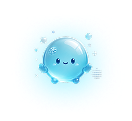
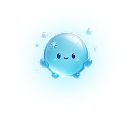
plus_info

diff --git a/accounts/static/css/plus_info.css b/accounts/static/css/plus_info.css
@@ -1,0 +1,133 @@
+.btn{
+    border-radius: 56px;
+background: var(--b_non, linear-gradient(180deg, #FFF 0%, #818181 100%));
+box-shadow: 0 4px 4px 0 rgba(0, 0, 0, 0.25), 0 4px 10px 0 #FFF;
+}
+
+.frame_148{
+    display: flex;
+width: 327px;
+flex-direction: column;
+justify-content: center;
+align-items: flex-start;
+}
+
+.frame_143{
+    display: flex;
+flex-direction: column;
+justify-content: center;
+align-items: center;
+gap: 8px;
+align-self: stretch;
+}
+
+.font_2{
+    display: flex;
+height: 24px;
+flex-direction: column;
+justify-content: flex-end;
+align-self: stretch;
+color: #676767;
+font-family: Pretendard;
+font-size: 15px;
+font-style: normal;
+font-weight: 600;
+line-height: normal;
+}
+
+.frame_142{
+ display: flex;
+height: 55px;
+padding-right: 14px;
+justify-content: flex-end;
+align-items: center;
+gap: 195px;
+align-self: stretch;
+border-radius: 12px;
+border: 1px solid #D3D3D3;
+background: #FFF;
+}
+
+.frame_149{
+    display: flex;
+align-items: center;
+gap: 12px;
+}
+
+.icon_1{
+    display: flex;
+width: 39px;
+height: 41px;
+flex-direction: column;
+justify-content: center;
+align-items: center;
+aspect-ratio: 39/41;
+}
+
+.fashion{
+    color: #676767;
+font-family: Pretendard;
+font-size: 20px;
+font-style: normal;
+font-weight: 600;
+line-height: normal;
+}
+
+.frame_147{
+    display: flex;
+flex-direction: column;
+justify-content: center;
+align-items: flex-start;
+align-self: stretch;
+}
+
+.frame_144{
+    display: flex;
+flex-direction: column;
+justify-content: center;
+align-items: center;
+gap: 8px;
+align-self: stretch;
+}
+
+.frame_141
+{
+    display: flex;
+height: 45px;
+padding: 0 15px;
+align-items: center;
+gap: 10px;
+align-self: stretch;
+border-radius: 12px;
+border: 1px solid #D3D3D3;
+background: #FFF;
+}
+
+.font_3{
+    color: #C8C8C8;
+font-family: Pretendard;
+font-size: 14px;
+font-style: normal;
+font-weight: 600;
+line-height: normal;
+}
+
+.pt{
+    width: 21px;
+height: 21px;
+aspect-ratio: 1/1;
+}
+
+.empty{
+    display: flex;
+width: 231px;
+height: 15px;
+flex-direction: column;
+justify-content: flex-end;
+color: var(--, #F36262);
+font-family: Pretendard;
+font-size: 10px;
+font-style: normal;
+font-weight: 500;
+line-height: normal;
+}

diff --git a/accounts/templates/plus_info.html b/accounts/templates/plus_info.html
@@ -1,0 +1,63 @@
+{% extends 'plus_base.html' %}
+{% load static %}
+
+{% block css %}
+<link rel="stylesheet" href="{% static 'css/plus_info.css' %}">
+{% endblock %}
+
+{% block content %}
+<div class="frame_148">
+    <div class="frame_143">
+        <div class="font_2">
+        카테고리
+        </div>
+        <div class="frame_142">
+            <div class="frame_149">
+            <img src="{% static 'images/image25.png' %}" class="icon_1">
+             <div class="fashion">패션</div>  
+            </div>
+            <div class="pt">
+            <svg xmlns="http://www.w3.org/2000/svg" width="21" height="21" viewBox="0 0 21 21" fill="none">
+            <path d="M4.375 7.875L10.5 14L16.625 7.875" stroke="black" stroke-opacity="0.4" stroke-width="2" stroke-linecap="round" stroke-linejoin="round"/>
+            </svg>
+            </div>
+    
+        </div>
+    </div>
+    <div class="frame_147">
+        <div class="frame_144">
+            <div class="font_2">
+                 아이템 이름
+            </div>
+            <div class="frame_141">
+                 <div class="font_3">이름을 입력해주세요</div>
+            </div>
+        </div>
+        <div class="empty">
+
+        </div>
+        <div class="frame_144">
+            <div class="font_2">
+                 링크 첨부 (선택)
+            </div>
+            <div class="frame_141">
+                 <div class="font_3">링크를 입력해주세요</div>
+            </div>
+        </div>
+        <div class="empty">
+            
+        </div>
+        <div class="frame_144">
+            <div class="font_2">
+                 가격 (선택)
+            </div>
+            <div class="frame_141">
+                 <div class="font_3">가격을 입력해주세요</div>
+            </div>
+        </div>
+        <div class="empty">
+            
+        </div>
+    </div>
+</div>
+{% endblock %}

diff --git a/main/urls.py b/main/urls.py
@@ -2,7 +2,8 @@ from django.urls import path
 from . import views
 
 urlpatterns = [
-    path('', views.plus, name='plus'),
+    path('', views.plus_info, name='plus_info'),
+    path('plus/', views.plus, name='plus'),
     path('product/', views.product, name='product'),
     path('signup/', views.signup, name='signup'),
     path('login/', views.login, name='login'),

diff --git a/main/views.py b/main/views.py
@@ -30,3 +30,6 @@ def product(request):
 def plus(request):
     return render(request, 'plus.html')
 
+def plus_info(request):
+    return render(request, 'plus_info.html')
+